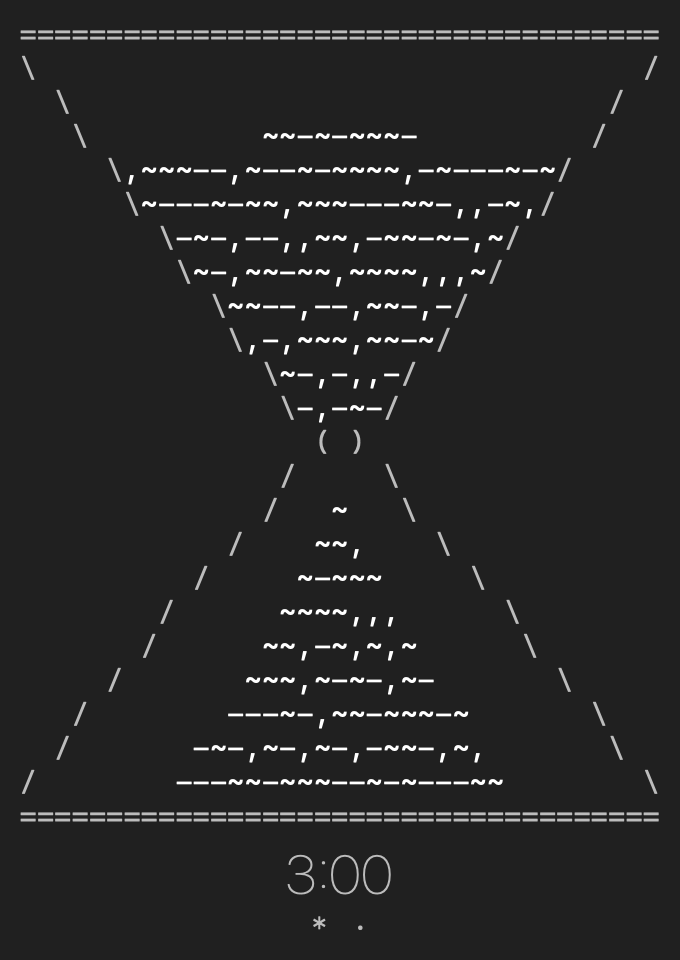
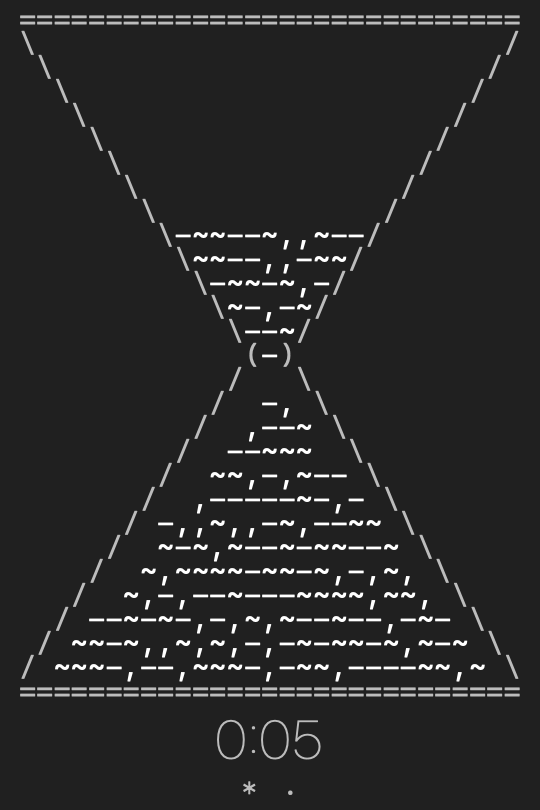
Regenerate the break-glass screenshot at the ideal geometry

diff --git a/README.md b/README.md
@@ -34,7 +34,7 @@ like everything else here, so there is nothing to start and no state to
 lose: you join the pomodoro already in progress, the way you would join the
 hour.
 
-<img src="docs/pomodoro-break.png" width="300" alt="A break glass: the same hourglass running wavy break sand, with a dimmed 3:00 countdown and two pomodoro grains under it">
+<img src="docs/pomodoro-break.png" width="270" alt="A break glass: the same hourglass running wavy break sand, with a dimmed 3:00 countdown and two pomodoro grains under it">
 
 Work runs the usual sand. Breaks run different sand, wavy `~` and `-`
 grains, with a dimmed countdown and a lighter menu bar glass, so one glance
